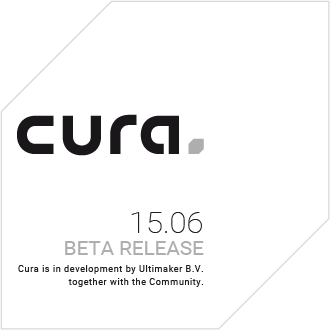
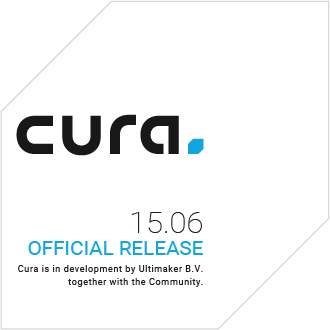
Final changes for release
Adds the release splash and changes the version to 15.06

diff --git a/resources/qml/AboutDialog.qml b/resources/qml/AboutDialog.qml
@@ -31,7 +31,7 @@ UM.Dialog {
     Label {
         id: version
 
-        text: "Cura 15.06 Beta"
+        text: "Cura 15.06"
         font: UM.Theme.fonts.large
         anchors.horizontalCenter : logo.horizontalCenter
         anchors.horizontalCenterOffset : (logo.width * 0.25)

diff --git a/cura/CuraApplication.py b/cura/CuraApplication.py
@@ -51,7 +51,7 @@ class CuraApplication(QtApplication):
         if not hasattr(sys, "frozen"):
             Resources.addResourcePath(os.path.join(os.path.abspath(os.path.dirname(__file__)), ".."))
 
-        super().__init__(name = "cura", version = "15.05.97")
+        super().__init__(name = "cura", version = "15.06.00")
 
         self.setWindowIcon(QIcon(Resources.getPath(Resources.ImagesLocation, "cura-icon.png")))
 
